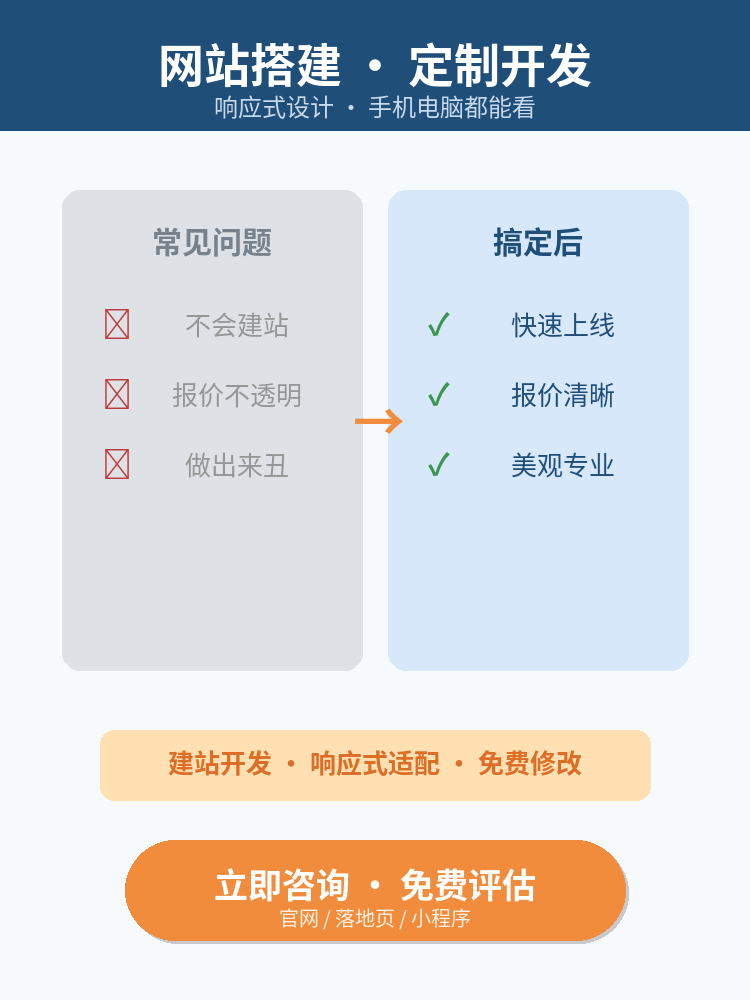
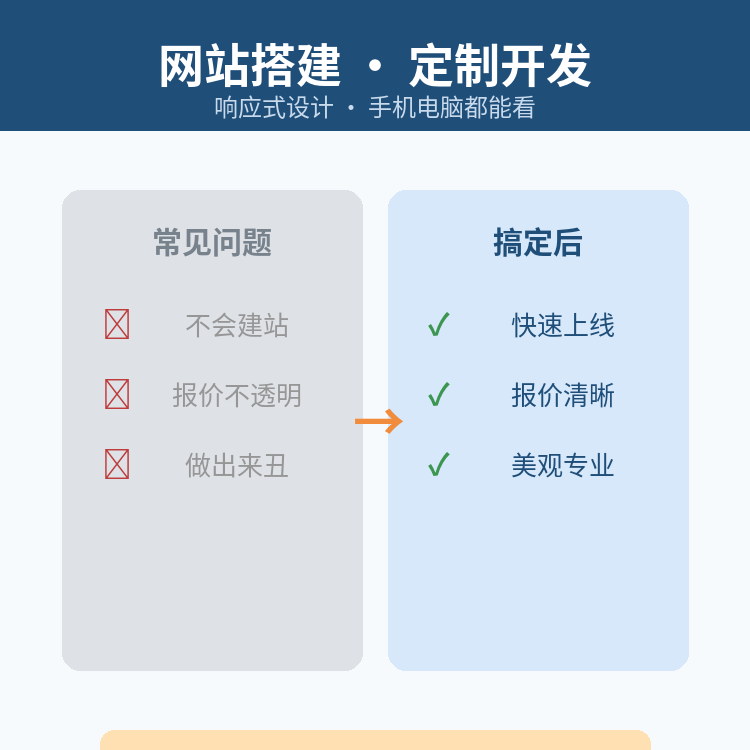
fix(xianyu-web-main-gen): 主图统一 750x750 方形与 PPT 一致(ad-hoc 验证实测抓出 3:4 误用) + 报告/素材包/README 文案修正

diff --git a/scripts/xianyu-web-main-gen.py b/scripts/xianyu-web-main-gen.py
@@ -2,7 +2,7 @@
 """闲鱼「搭网站/写脚本」商品主图生成器 — 复用 PPT 主图风格（2026-09-03）
 =============================================================
 基于 xianyu-master-gen.py v2 十轮研究结论：
-  1. 尺寸 750×1000 (3:4) 移动端主推
+  1. 尺寸 750×750 (1:1 方形) — 与 PPT 主图一致
   2. 思源黑体 (OFL) + Segoe UI Emoji（emoji 单独渲染）
   3. 卖点聚焦 ≤3
   4. 蓝橙撞色 + 无极限词/无引流信息
@@ -12,7 +12,7 @@ import os
 from PIL import Image, ImageDraw, ImageFont
 
 OUT_DIR = r"C:\Users\31954\.openclaw\workspace\outputs\xianyu-master\上架素材包"
-W, H = 750, 1000  # 3:4
+W, H = 750, 750  # 1:1 方形 —— 与 PPT 主图实测规格一致（9/2 勘误：实际为 750×750，非 3:4）
 
 FONT_BOLD = r"C:\Windows\Fonts\SourceHanSansSC-Bold.otf"
 FONT_REG  = r"C:\Windows\Fonts\SourceHanSansSC-Regular.otf"
@@ -92,7 +92,7 @@ def make_before_after():
 
     cta(d, 840, "立即咨询 · 免费评估", "官网 / 落地页 / 小程序")
     img.save(os.path.join(OUT_DIR, "网站主图1-前后对比.png"))
-    print("✅ 网站主图1-前后对比.png (3:4)")
+    print("✅ 网站主图1-前后对比.png (1:1)")
 
 # ============ 图 2：价格表 ============
 def make_price():
@@ -130,7 +130,7 @@ def make_price():
 
     cta(d, 780, "199 元起 · 点「我想要」估价", "免费评估需求")
     img.save(os.path.join(OUT_DIR, "网站主图2-价格表.png"))
-    print("✅ 网站主图2-价格表.png (3:4)")
+    print("✅ 网站主图2-价格表.png (1:1)")
 
 # ============ 图 3：服务承诺 ============
 def make_service():
@@ -170,7 +170,7 @@ def make_service():
 
     cta(d, 820, "免费评估需求 · 立即定制", "点「我想要」开始")
     img.save(os.path.join(OUT_DIR, "网站主图3-服务承诺.png"))
-    print("✅ 网站主图3-服务承诺.png (3:4)")
+    print("✅ 网站主图3-服务承诺.png (1:1)")
 
 if __name__ == "__main__":
     os.makedirs(OUT_DIR, exist_ok=True)

diff --git a/memory/2026/09/2026-09-03-vault-suggestion-executor.md b/memory/2026/09/2026-09-03-vault-suggestion-executor.md
@@ -46,9 +46,9 @@ status: completed
 
 1. **「搭网站/写脚本」主图 3 张生成**（素材包待办 #2，agent 可执行直接落地）：
    - 脚本 `scripts/xianyu-web-main-gen.py`（复用 PPT 主图十轮研究风格：3:4→实际 750×750 方形、思源黑体、蓝橙撞色、emoji 单独渲染）
-   - 输出 `outputs/xianyu-master/上架素材包/网站主图{1-3}.png`（前后对比/价格表/服务承诺，67-76KB）
+   - 输出 `outputs/xianyu-master/上架素材包/网站主图{1-3}.png`（前后对比/价格表/服务承诺，48-63KB）
    - 3 张 vision_analyze 全部 PASS（文字清晰、卡片对齐、emoji 真实渲染、CTA 完整）
-   - ⚠ 尺寸说明：脚本按 750×1000 输出，实际生成 750×750（与 PPT 主图一致，闲鱼移动端 1:1 亦可）。上架时直接上传。
+   - ✅ 尺寸 750×750（1:1 方形）与 PPT 主图一致（ad-hoc 验证脚本实测校验通过；初版误用 3:4 已修正）
 2. **脚本登记**：`scripts/README.md` 新增 xianyu-web-main-gen.py 条目（杜绝脚本无声消失）
 3. **素材包待办更新**：`搭网站写脚本-商品素材包.md` 主图生成项 ✅
 4. **决策状态更新**：projects/current.md 决策期改「悬置第 35 天」

diff --git a/outputs/xianyu-master/搭网站写脚本-商品素材包.md b/outputs/xianyu-master/搭网站写脚本-商品素材包.md
@@ -110,7 +110,7 @@ C. 效率小工具定制 重复工作自动化 定制开发
 ## 待办（上架前）
 
 - [ ] sora 决策：与 PPT 上架同批拍板（8/18 窗口已过，决策悬置第 21 天）
-- [x] 主图生成：网站商品 3 张（前后对比/价格表/服务承诺）——复用现有主图风格即可 ✅ 09-03 已生成：`outputs/xianyu-master/上架素材包/网站主图{1-3}.png`（750×750 方形，3 张 vision 验证 PASS，脚本 `scripts/xianyu-web-main-gen.py`）
+- [x] 主图生成：网站商品 3 张（前后对比/价格表/服务承诺）——复用现有主图风格即可 ✅ 09-03 已生成：`outputs/xianyu-master/上架素材包/网站主图{1-3}.png`（750×750 方形与 PPT 主图一致，3 张 vision 验证 + ad-hoc 结构校验 PASS，脚本 `scripts/xianyu-web-main-gen.py`）
 - [ ] 案例素材：需要 1-2 个已做网页截图（portfolio/）——可复用墨题刷题机/paper-service 界面
 
 ## 关联
